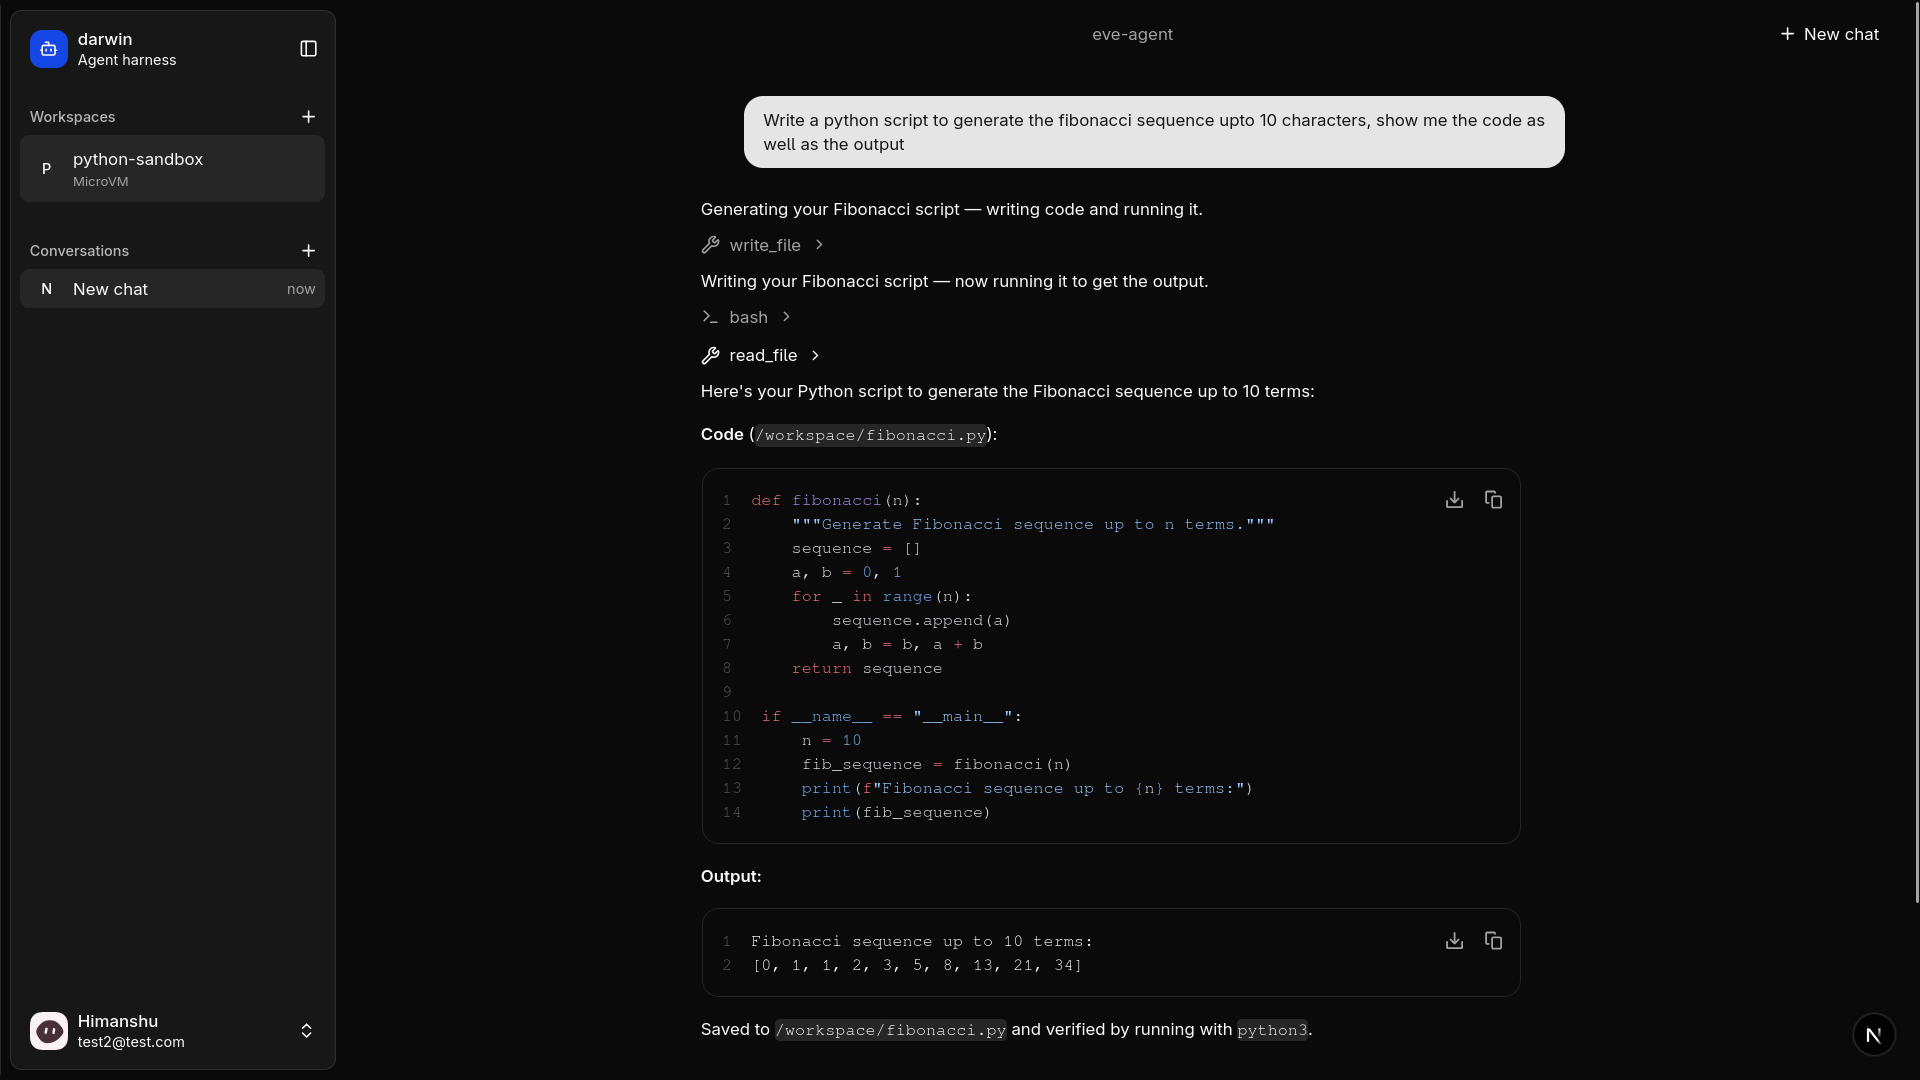
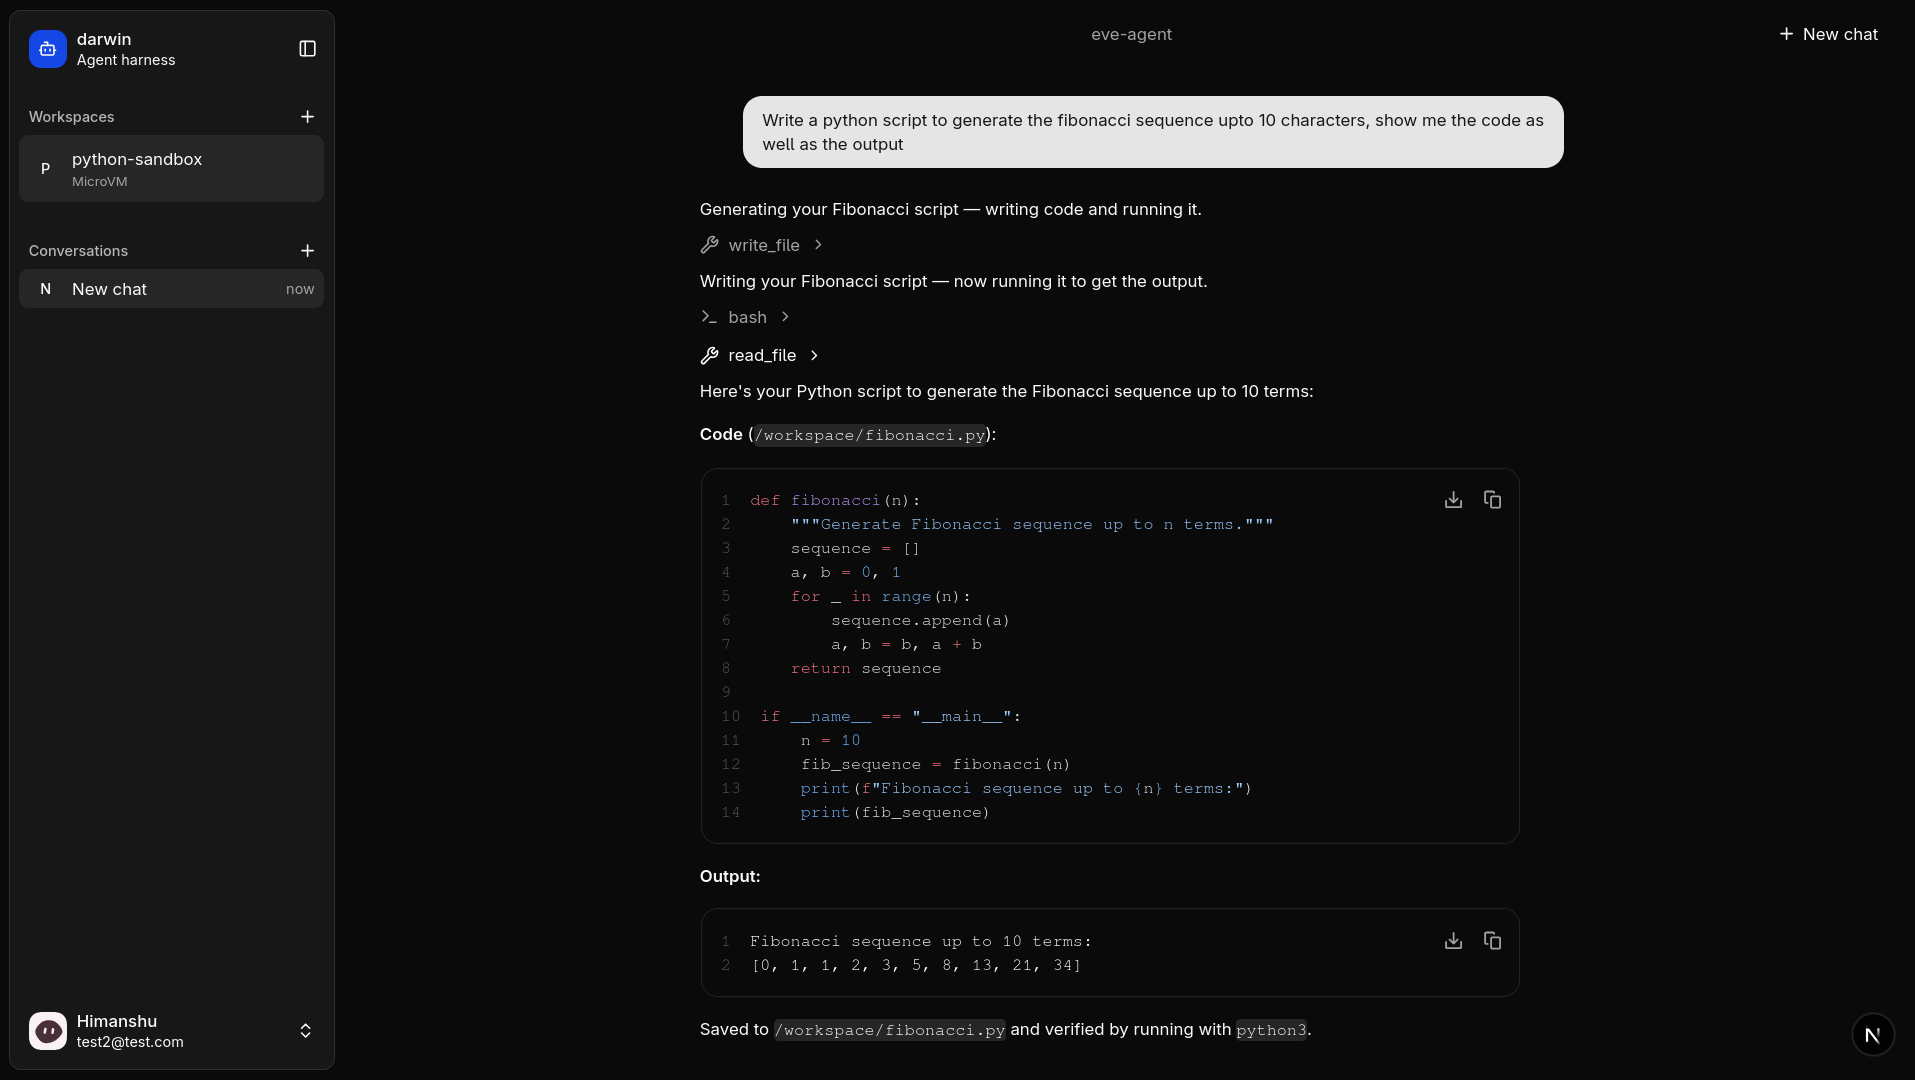
fix(landing): crop scrollbar strip from shot edges

diff --git a/apps/landing-page/themes/showcase/home.html b/apps/landing-page/themes/showcase/home.html
@@ -43,17 +43,25 @@ code{font-family:'Iosevka',ui-monospace,SFMono-Regular,Menlo,monospace;font-size
 .btn-solid:hover{opacity:.88}
 .btn-ghost{border:1px solid var(--ghost-border);color:var(--text)}
 .btn-ghost:hover{border-color:var(--faint)}
-/* screenshots bento */
+/* screenshots carousel */
 .shots{max-width:980px;margin:0 auto;padding:0 1.25rem}
-.bento{display:grid;grid-template-columns:1fr 1fr;gap:.9rem;margin-bottom:1rem}
-.bento figure{margin:0;border:1px solid var(--border);border-radius:14px;overflow:hidden;background:var(--code-bg)}
-.bento figure.wide{grid-column:1/-1}
-.bento img{display:block;width:100%;height:auto}
-.bento figcaption{padding:.55rem .9rem;font-size:.78rem;color:var(--faint);border-top:1px solid var(--border)}
-.bento .only-light{display:none}
+.carousel{border:1px solid var(--border);border-radius:14px;overflow:hidden;background:var(--code-bg);margin-bottom:.8rem}
+.car-viewport{position:relative;overflow:hidden}
+.car-track{display:flex;transition:transform .45s cubic-bezier(.3,.7,.3,1)}
+.car-slide{flex:0 0 100%;min-width:0;margin:0}
+.car-slide img{display:block;width:100%;height:auto}
+.carousel .only-light{display:none}
 [data-theme="light"] .only-light{display:block}
 [data-theme="light"] .only-dark{display:none}
-@media(max-width:640px){.bento{grid-template-columns:1fr}}
+.car-btn{position:absolute;top:50%;transform:translateY(-50%);width:2.1rem;height:2.1rem;border-radius:99px;border:1px solid var(--border);background:rgba(0,0,0,.45);color:#fff;cursor:pointer;display:flex;align-items:center;justify-content:center;backdrop-filter:blur(6px);padding:0}
+.car-btn:hover{border-color:var(--faint)}
+.car-prev{left:.8rem}
+.car-next{right:.8rem}
+.car-bar{display:flex;align-items:center;gap:.8rem;padding:.1rem .25rem;margin-bottom:1rem}
+.car-caption{margin:0;font-size:.78rem;color:var(--faint);flex:1;min-width:0}
+.car-dots{display:flex;gap:.45rem;flex-shrink:0}
+.car-dots button{width:.55rem;height:.55rem;border-radius:99px;border:1px solid var(--faint);background:transparent;cursor:pointer;padding:0}
+.car-dots button.on{background:var(--text);border-color:var(--text)}
 /* sections */
 .sec-label{font-size:.85rem;color:var(--muted);margin:2.8rem 0 .8rem}
 .feat-list{list-style:none}
@@ -142,22 +150,35 @@ View on GitHub</a>
 </div>
 
 <div class="shots">
-<div class="bento">
-<figure class="wide">
+<div id="shots-carousel">
+<div class="carousel">
+<div class="car-viewport">
+<div class="car-track" id="car-track">
+<div class="car-slide">
 <img class="only-dark" src="shots/home-dark.png" alt="darwin chat home in dark mode" loading="eager" />
 <img class="only-light" src="shots/home-light.png" alt="darwin chat home in light mode" loading="eager" />
-<figcaption>Composer, workspaces, and plan/build modes</figcaption>
-</figure>
-<figure>
+</div>
+<div class="car-slide">
 <img class="only-dark" src="shots/chat-dark.png" alt="darwin running code in the microVM, dark mode" loading="lazy" />
 <img class="only-light" src="shots/chat-light.png" alt="darwin running code in the microVM, light mode" loading="lazy" />
-<figcaption>Writes and runs code inside the microVM</figcaption>
-</figure>
-<figure>
+</div>
+<div class="car-slide">
 <img class="only-dark" src="shots/workspace-dark.png" alt="spin up workspace dialog, dark mode" loading="lazy" />
 <img class="only-light" src="shots/workspace-light.png" alt="spin up workspace dialog, light mode" loading="lazy" />
-<figcaption>MicroVM or host directory, with packages</figcaption>
-</figure>
+</div>
+</div>
+<button class="car-btn car-prev" aria-label="Previous screenshot"><svg width="16" height="16" viewBox="0 0 24 24" fill="none" stroke="currentColor" stroke-width="2.4" stroke-linecap="round" stroke-linejoin="round"><path d="M15 18l-6-6 6-6"/></svg></button>
+<button class="car-btn car-next" aria-label="Next screenshot"><svg width="16" height="16" viewBox="0 0 24 24" fill="none" stroke="currentColor" stroke-width="2.4" stroke-linecap="round" stroke-linejoin="round"><path d="M9 18l6-6-6-6"/></svg></button>
+</div>
+</div>
+<div class="car-bar">
+<p class="car-caption" id="car-caption">Composer, workspaces, and plan/build modes</p>
+<div class="car-dots" id="car-dots">
+<button aria-label="Show screenshot 1" aria-current="true"></button>
+<button aria-label="Show screenshot 2"></button>
+<button aria-label="Show screenshot 3"></button>
+</div>
+</div>
 </div>
 </div>
 
@@ -402,7 +423,7 @@ window.__cmdkSections = [];
 (function(){
   var root = document.documentElement;
   if (window.matchMedia('(prefers-reduced-motion: reduce)').matches) return;
-  var els = document.querySelectorAll('.sec-label, .feat-list, .cmd-box, .faq, .bento figure, footer.site');
+  var els = document.querySelectorAll('.sec-label, .feat-list, .cmd-box, .faq, .carousel, footer.site');
   if (!els.length || !('IntersectionObserver' in window)) return;
   root.classList.add('js');
   var io = new IntersectionObserver(function(entries){
@@ -411,6 +432,53 @@ window.__cmdkSections = [];
     });
   }, { threshold: 0.1, rootMargin: '0px 0px -6% 0px' });
   els.forEach(function(el){ el.classList.add('rv'); io.observe(el); });
+})();
+</script>
+
+<script>
+(function(){
+  var track = document.getElementById('car-track');
+  if (!track) return;
+  var box = document.getElementById('shots-carousel');
+  var bar = document.getElementById('car-caption');
+  var dots = Array.prototype.slice.call(document.querySelectorAll('#car-dots button'));
+  var captions = [
+    'Composer, workspaces, and plan/build modes',
+    'Writes and runs code inside the microVM',
+    'MicroVM or host directory, with packages'
+  ];
+  var n = track.children.length;
+  var i = 0, timer = null, tx = null;
+  var reduce = window.matchMedia('(prefers-reduced-motion: reduce)').matches;
+  function render(){
+    track.style.transform = 'translateX(-' + (i * 100) + '%)';
+    bar.textContent = captions[i] || '';
+    dots.forEach(function(d, k){
+      var on = k === i;
+      d.classList.toggle('on', on);
+      if (on) d.setAttribute('aria-current', 'true');
+      else d.removeAttribute('aria-current');
+    });
+  }
+  function restart(){
+    if (timer) { clearInterval(timer); timer = null; }
+    if (!reduce) timer = setInterval(function(){ i = (i + 1) % n; render(); }, 6000);
+  }
+  function go(k){ i = (k + n) % n; render(); restart(); }
+  Array.prototype.forEach.call(box.querySelectorAll('.car-prev'), function(b){ b.addEventListener('click', function(){ go(i - 1); }); });
+  Array.prototype.forEach.call(box.querySelectorAll('.car-next'), function(b){ b.addEventListener('click', function(){ go(i + 1); }); });
+  dots.forEach(function(d, k){ d.addEventListener('click', function(){ go(k); }); });
+  box.addEventListener('mouseenter', function(){ if (timer) { clearInterval(timer); timer = null; } });
+  box.addEventListener('mouseleave', restart);
+  box.addEventListener('touchstart', function(e){ tx = e.touches[0].clientX; }, { passive: true });
+  box.addEventListener('touchend', function(e){
+    if (tx == null) return;
+    var dx = e.changedTouches[0].clientX - tx;
+    tx = null;
+    if (Math.abs(dx) > 40) go(i + (dx < 0 ? 1 : -1));
+  }, { passive: true });
+  render();
+  restart();
 })();
 </script>
 </body>
